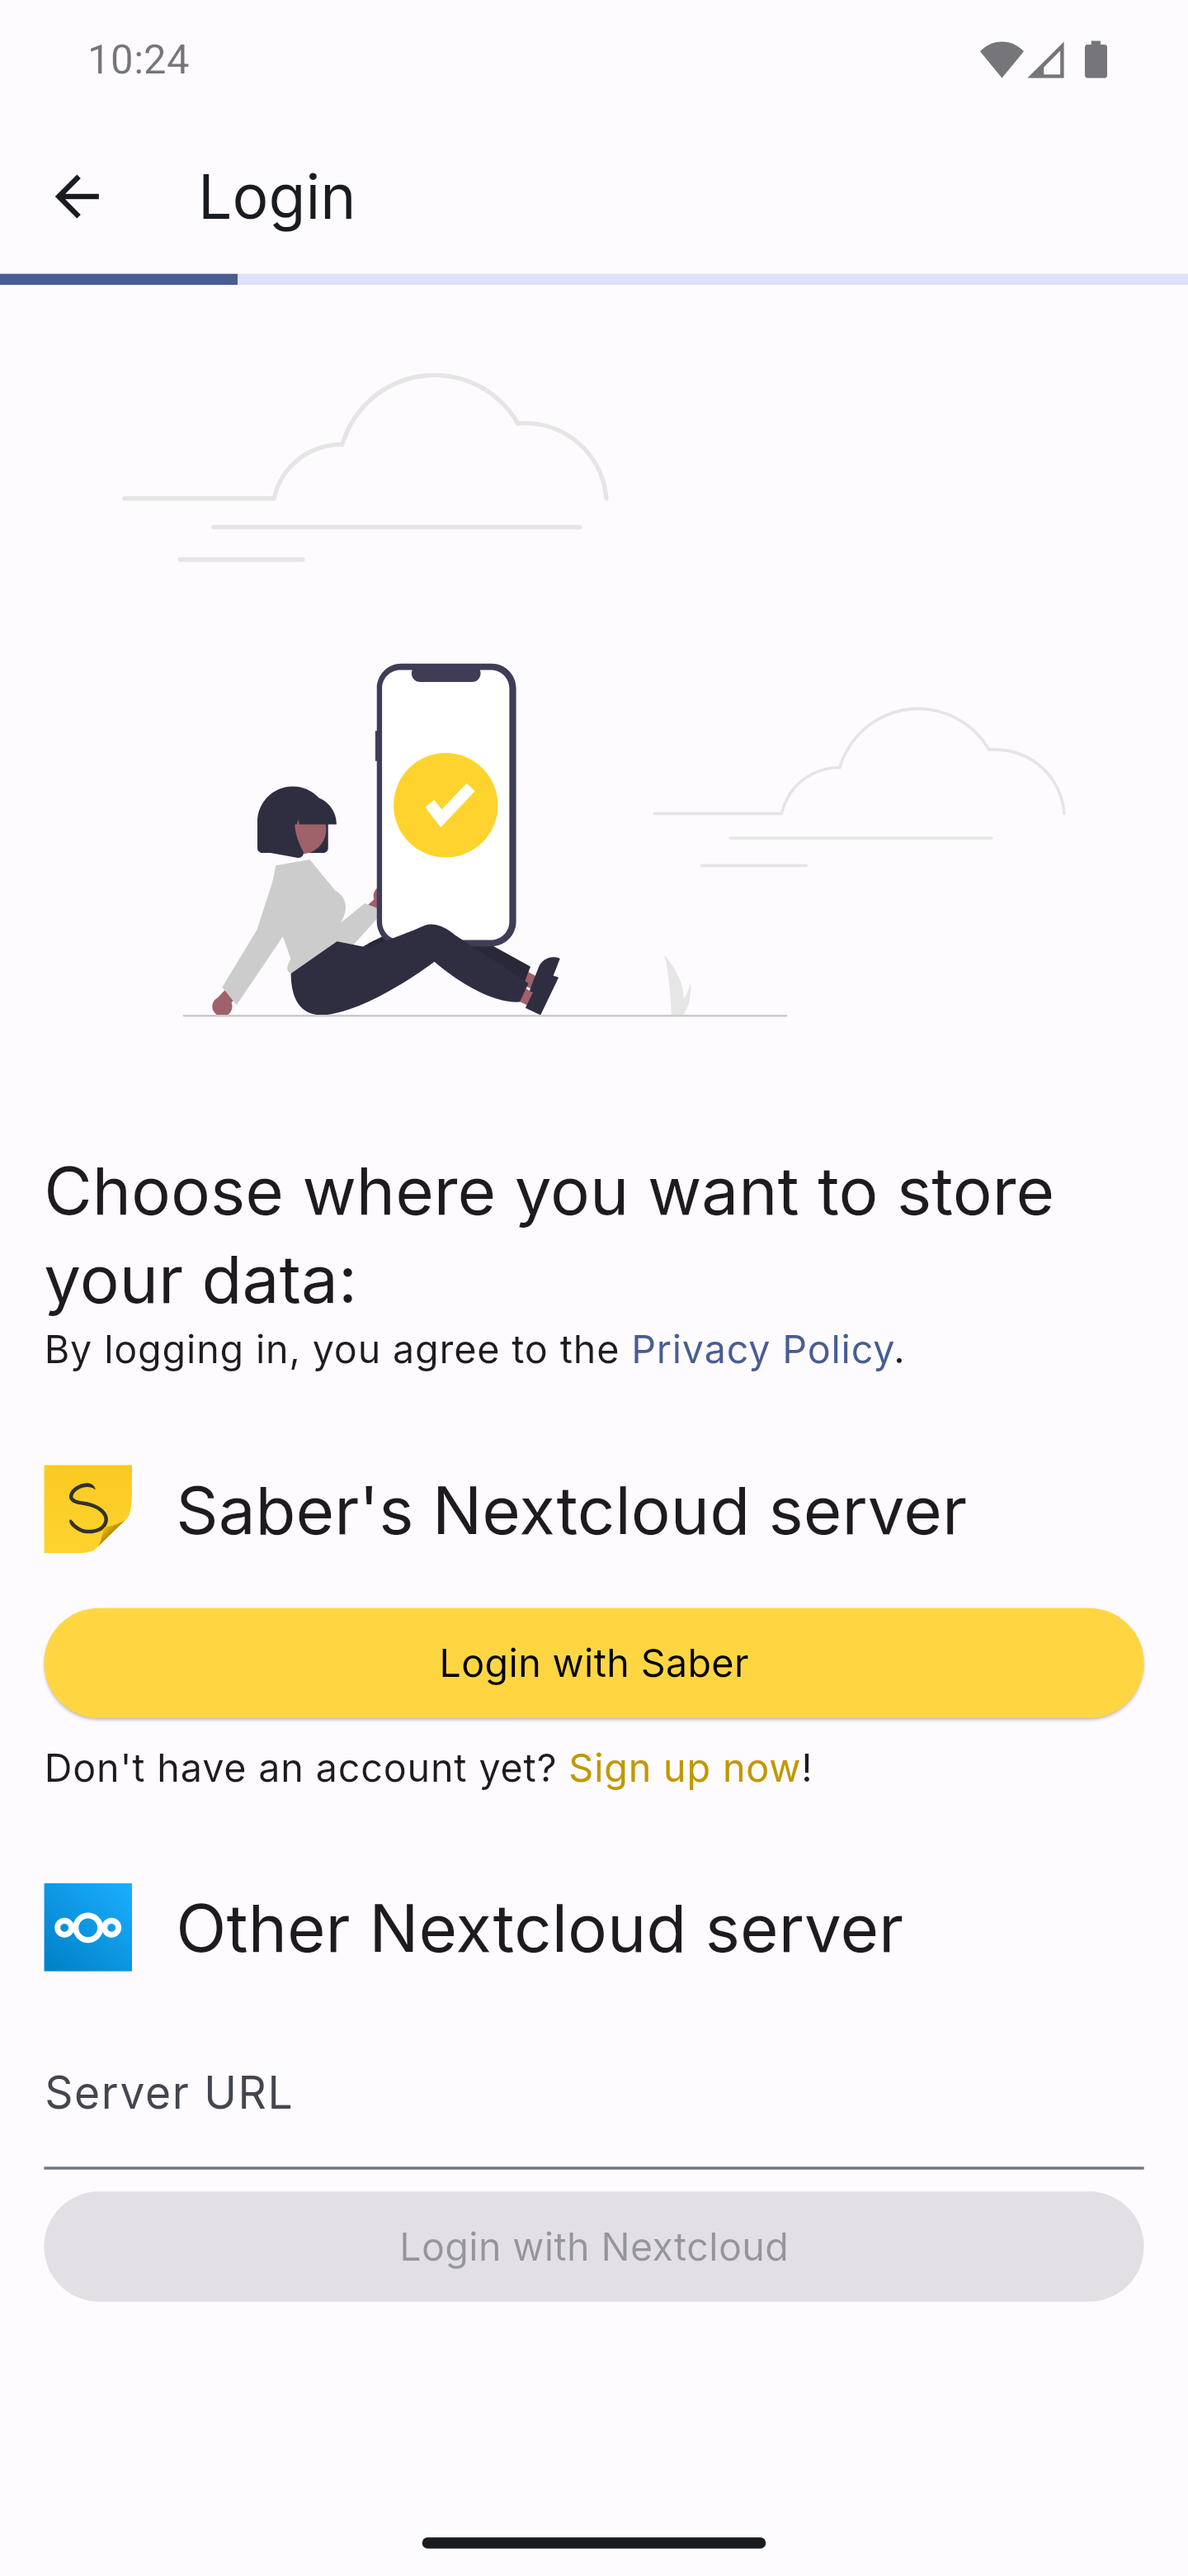
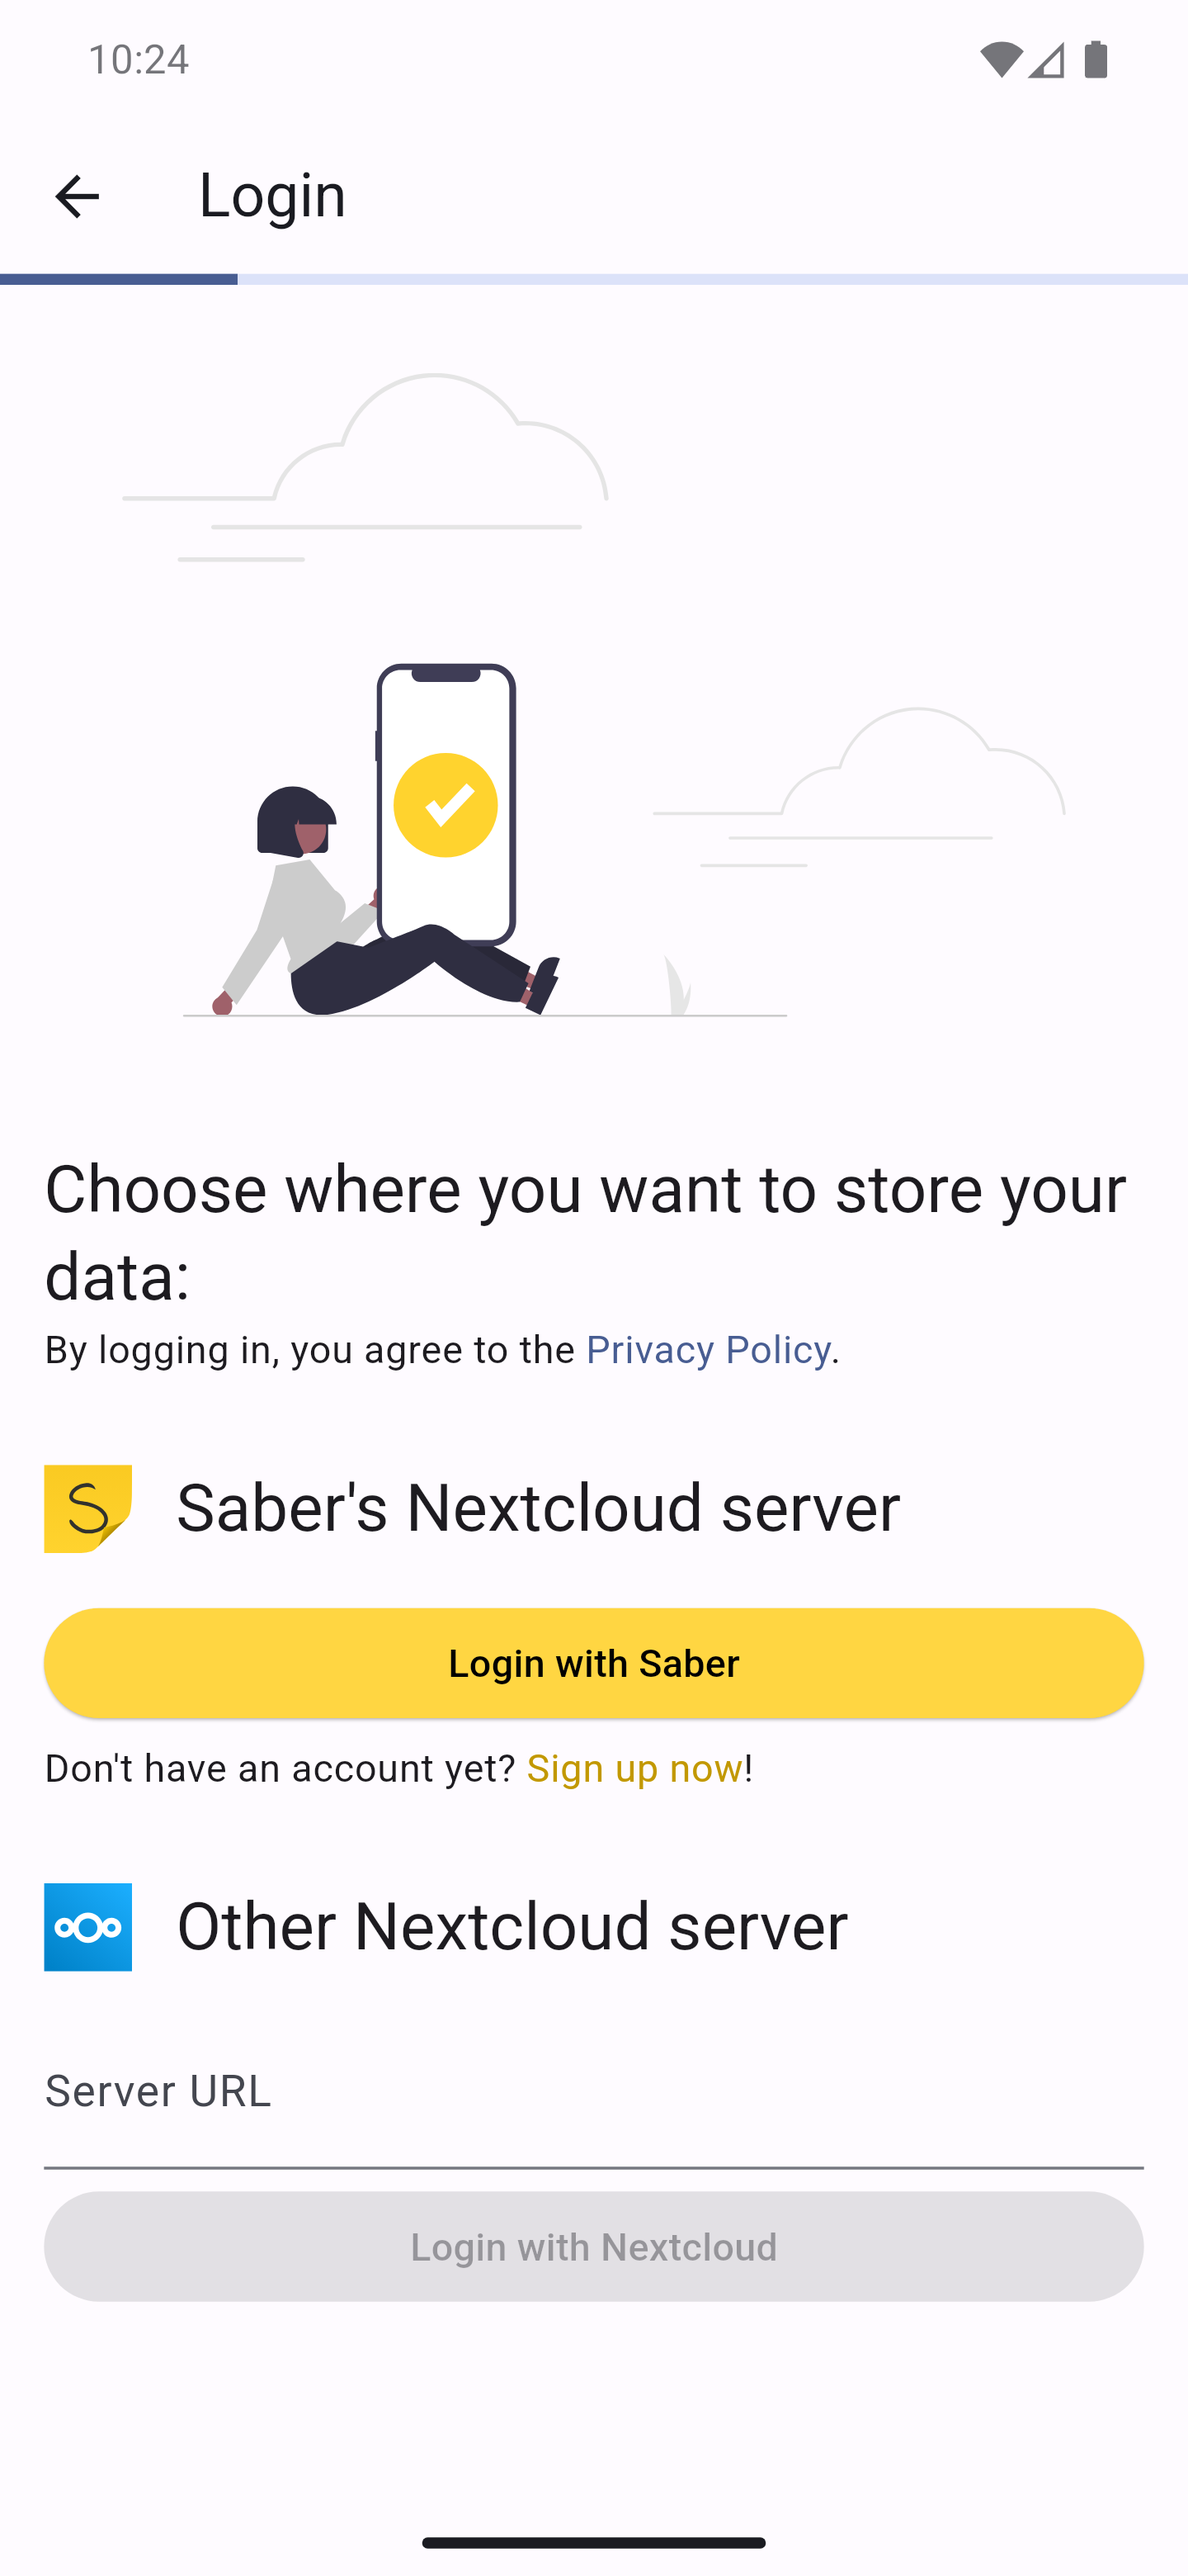
Fix: Replace Inter in tests

diff --git a/test/sbn_test.dart b/test/sbn_test.dart
@@ -9,6 +9,7 @@ import 'package:path/path.dart' as p;
 import 'package:saber/components/canvas/canvas.dart';
 import 'package:saber/components/canvas/image/editor_image.dart';
 import 'package:saber/components/canvas/pencil_shader.dart';
+import 'package:saber/components/theming/font_fallbacks.dart';
 import 'package:saber/data/editor/editor_core_info.dart';
 import 'package:saber/data/editor/editor_exporter.dart';
 import 'package:saber/data/editor/page.dart';
@@ -100,7 +101,7 @@ void main() {
                 context: tester.binding.rootElement!,
                 page: page,
               ));
-          await tester.loadFonts();
+          await tester.loadFonts(overriddenFonts: saberSansSerifFontFallbacks);
           await tester.pumpWidget(_buildCanvas(
             brightness: Brightness.light,
             path: path,
@@ -121,7 +122,7 @@ void main() {
                 context: tester.binding.rootElement!,
                 page: page,
               ));
-          await tester.loadFonts();
+          await tester.loadFonts(overriddenFonts: saberSansSerifFontFallbacks);
           await tester.pumpWidget(_buildCanvas(
             brightness: Brightness.dark,
             path: path,
@@ -240,7 +241,7 @@ void main() {
             context: tester.binding.rootElement!,
             page: importedCoreInfo.pages.first,
           ));
-      await tester.loadFonts();
+      await tester.loadFonts(overriddenFonts: saberSansSerifFontFallbacks);
       await tester.pumpWidget(_buildCanvas(
         brightness: Brightness.light,
         path: importedPath,

diff --git a/test/fonts_test.dart b/test/fonts_test.dart
@@ -1,11 +1,13 @@
 import 'package:flutter/material.dart';
 import 'package:flutter_test/flutter_test.dart';
 import 'package:golden_screenshot/golden_screenshot.dart';
+import 'package:saber/components/theming/font_fallbacks.dart';
 
 const _appFonts = [
   'AtkinsonHyperlegible',
   'Dekko',
   'FiraMono',
+  // Note that we no longer bundle Inter with the app, so it should fall back to Roboto in tests.
   'Inter',
   'Neucha'
 ];
@@ -30,7 +32,7 @@ void main() {
       ),
     ));
 
-    await tester.loadFonts();
+    await tester.loadFonts(overriddenFonts: saberSansSerifFontFallbacks);
     await tester.pumpAndSettle();
 
     tester.useFuzzyComparator(allowedDiffPercent: 0.1);

diff --git a/test/screenshot_goldens_test.dart b/test/screenshot_goldens_test.dart
@@ -209,7 +209,7 @@ void _screenshot({
         await tester.pump();
         await tester.precacheImagesInWidgetTree();
         await tester.precacheTopbarImages();
-        await tester.loadFonts();
+        await tester.loadFonts(overriddenFonts: saberSansSerifFontFallbacks);
         await tester.pumpFrames(widget, const Duration(milliseconds: 100));
 
         await tester.expectScreenshot(

diff --git a/lib/components/theming/font_fallbacks.dart b/lib/components/theming/font_fallbacks.dart
@@ -9,9 +9,12 @@ const saberSansSerifFontFallbacks = [
   'Liberation Sans',
   'Fira Sans',
   'Cantarell',
-  'Sans',
   'system-ui',
   'sans-serif',
+  '.SF Pro Display',
+  '.SF Pro Text',
+  '.SF UI Display',
+  '.SF UI Text',
   'Neucha',
   'Dekko',
 ];
